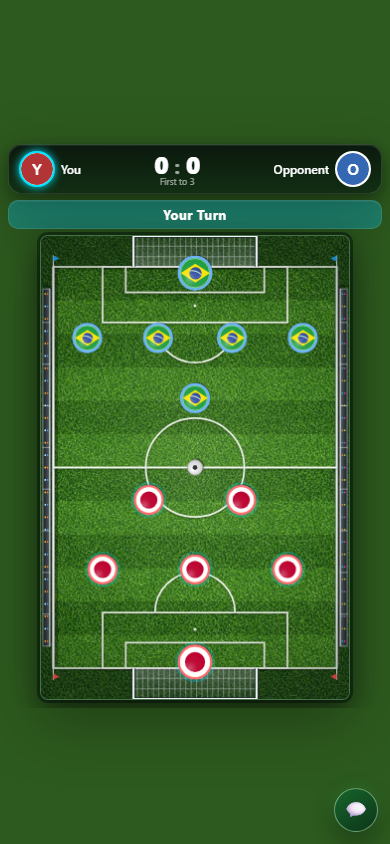
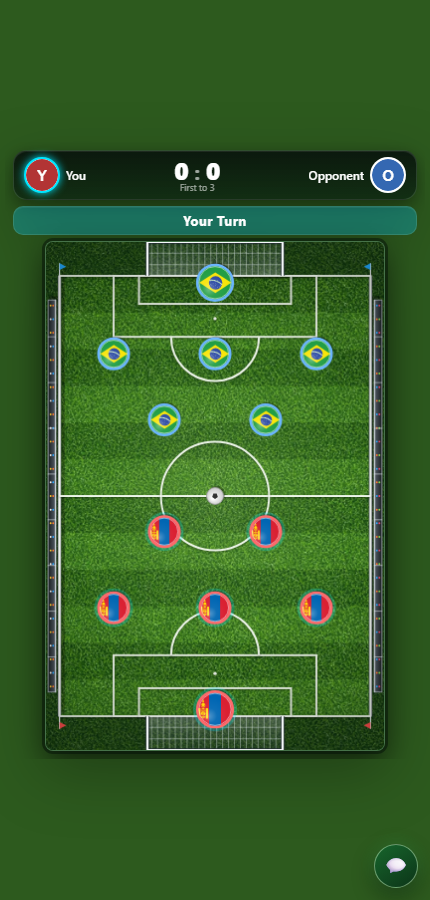
feat: add Mongolia as a special option in country selection and update related texts

Changed region(s): [[0.0, 0.154, 0.9846, 0.8318], [0.8615, 0.9242, 0.9846, 0.9858]]

diff --git a/script.js b/script.js
@@ -57,7 +57,7 @@ const STR = {
     send: "Илгээх",
     countryStep: "2 / 2 АЛХАМ",
     chooseCountry: "УЛСАА СОНГО",
-    worldCupTeams: "FIFA 2026 ДАШТ-ий 48 баг",
+    worldCupTeams: "FIFA 2026 ДАШТ-ий 48 баг + Монгол",
     searchCountry: "Улс хайх…",
     confirmCountry: "УЛСАА БАТЛАХ",
     shareText: (n, a, b) => n + " Ширээний хөл бөмбөгт " + a + "-" + b + " хожлоо! ⚽",
@@ -103,7 +103,7 @@ const STR = {
     send: "Send",
     countryStep: "STEP 2 OF 2",
     chooseCountry: "CHOOSE YOUR COUNTRY",
-    worldCupTeams: "48 FIFA World Cup 2026 teams",
+    worldCupTeams: "48 FIFA World Cup 2026 teams + Mongolia",
     searchCountry: "Search country…",
     confirmCountry: "CONFIRM COUNTRY",
     shareText: (n, a, b) => n + " won at Table Soccer! " + a + "-" + b + " ⚽",
@@ -205,7 +205,9 @@ const WORLD_CUP_COUNTRIES = [
   { code: "es", name: "Spain" },
   { code: "se", name: "Sweden" },
   { code: "ch", name: "Switzerland" },
-  { code: "tr", name: "Türkiye" }
+  { code: "tr", name: "Türkiye" },
+  // Mongolia is a special local option alongside the tournament roster.
+  { code: "mn", name: "Mongolia" }
 ];
 const COUNTRY_CODES = WORLD_CUP_COUNTRIES.map(function (country) { return country.code; });
 const COUNTRY_STORAGE_KEY = "table_soccer:country";

diff --git a/index.html b/index.html
@@ -81,7 +81,7 @@
     <div class="country-heading">
       <div class="country-step" id="countryStep">STEP 2 OF 2</div>
       <h2 class="country-title" id="countryTitle">CHOOSE YOUR COUNTRY</h2>
-      <p class="country-subtitle" id="countrySubtitle">FIFA World Cup 2026 teams</p>
+      <p class="country-subtitle" id="countrySubtitle">48 FIFA World Cup 2026 teams + Mongolia</p>
     </div>
     <input id="countrySearch" class="country-search" type="search" autocomplete="off"
       placeholder="Search country…" aria-label="Search country">
